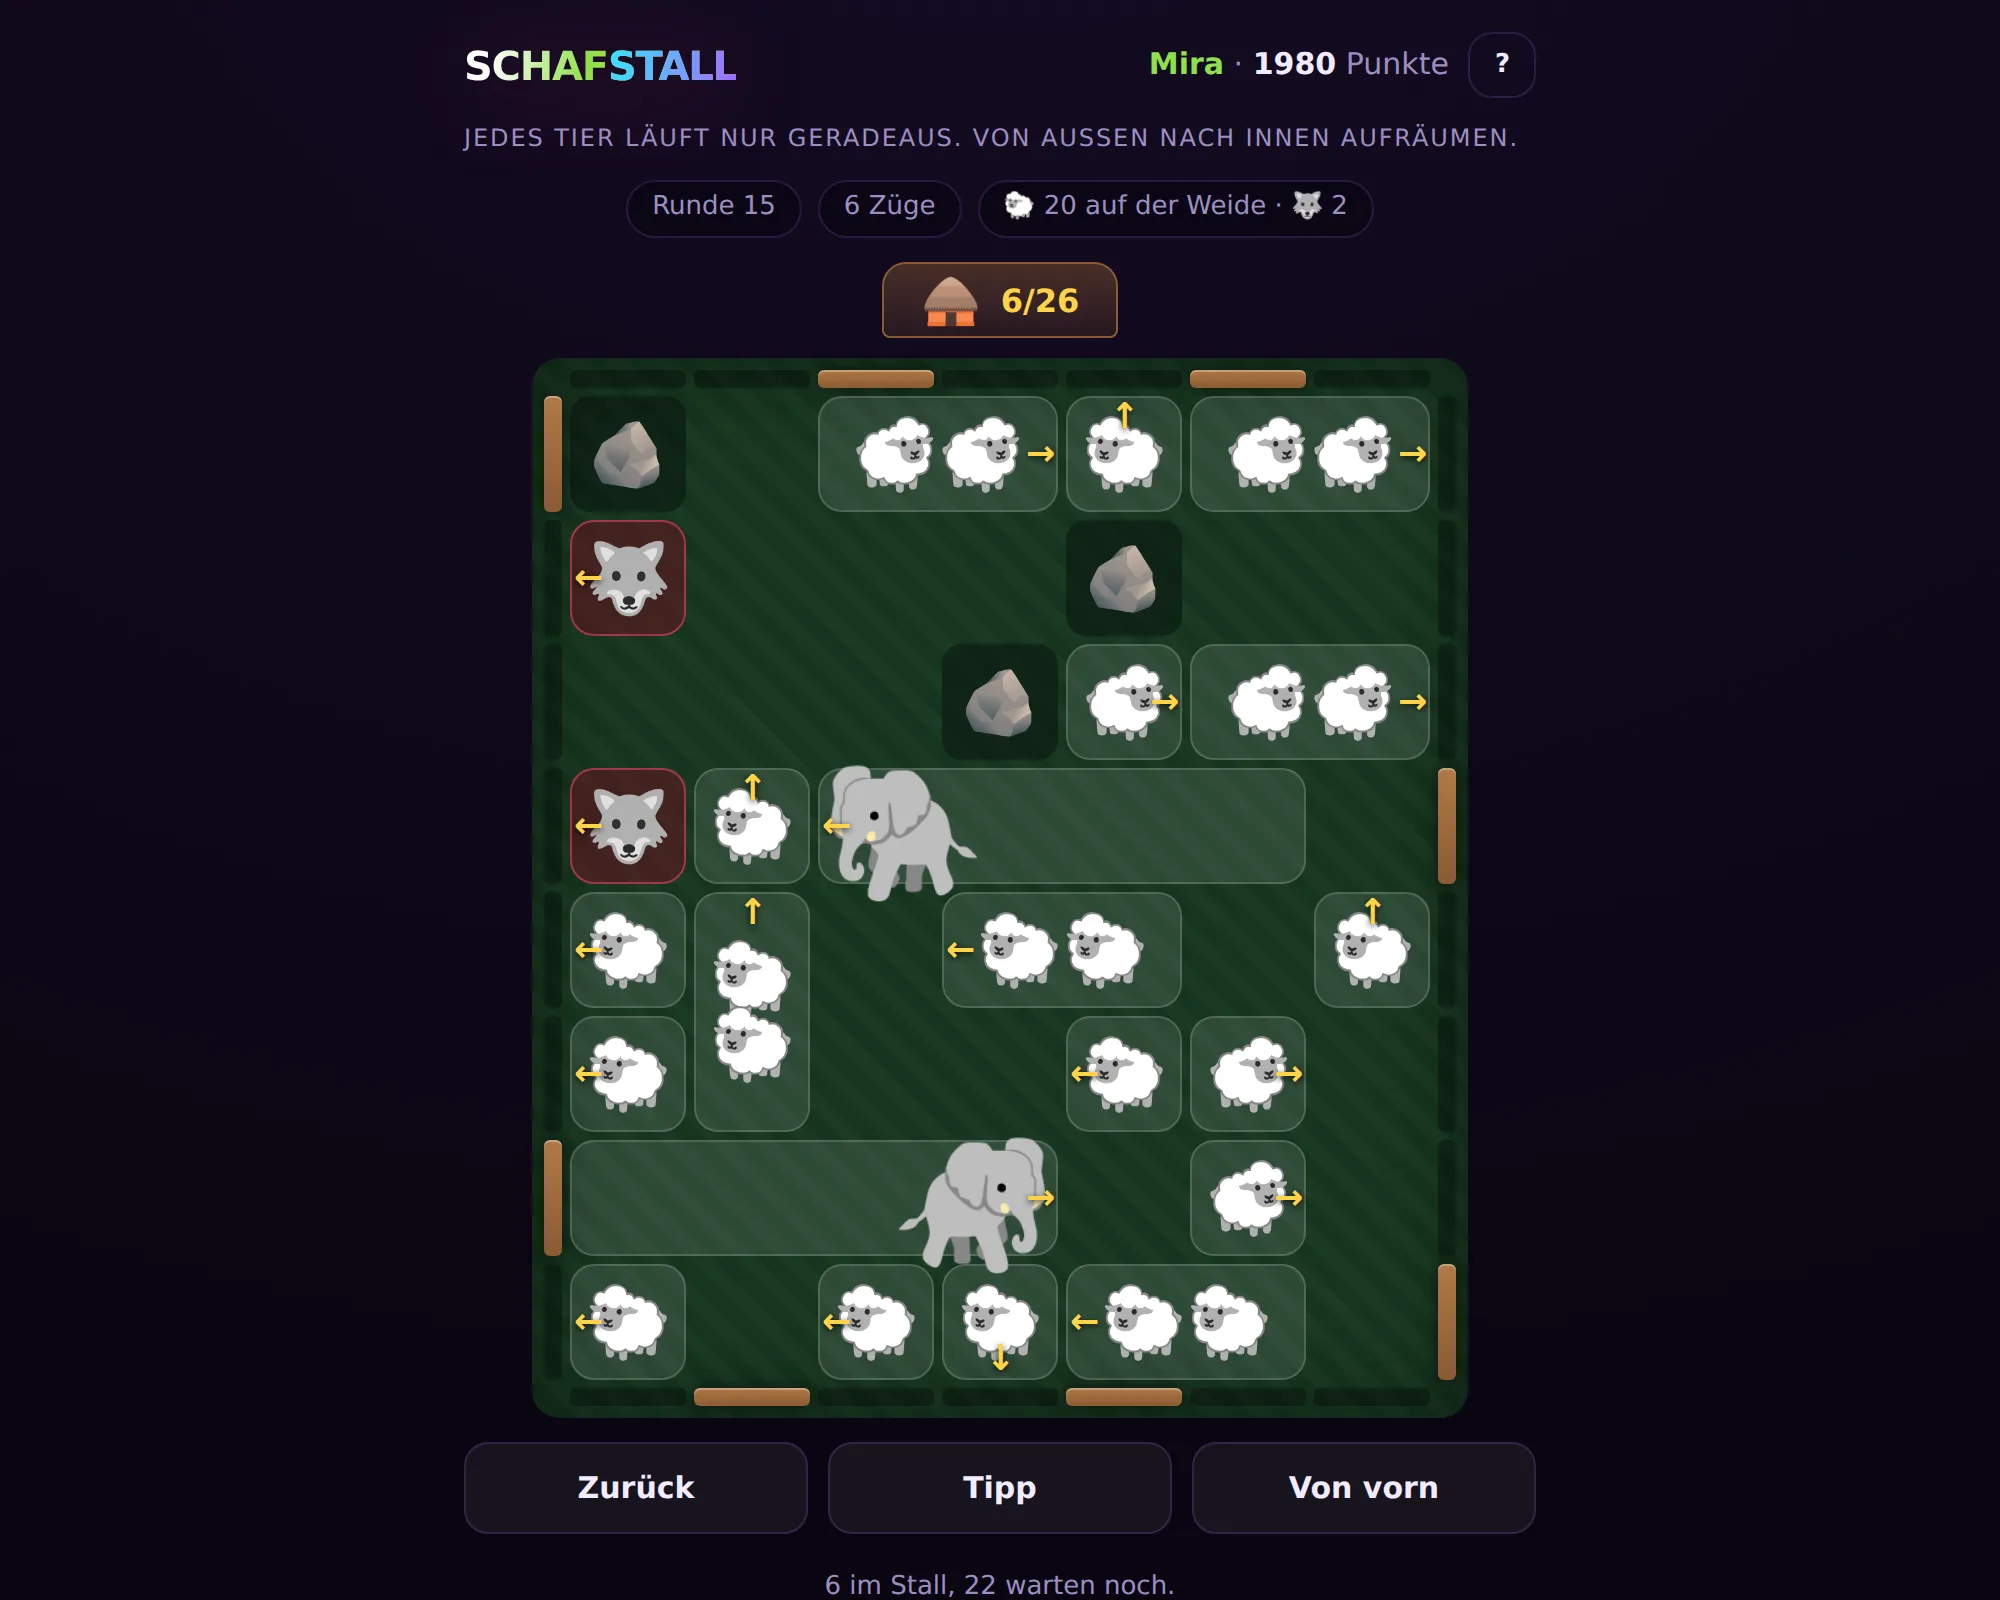
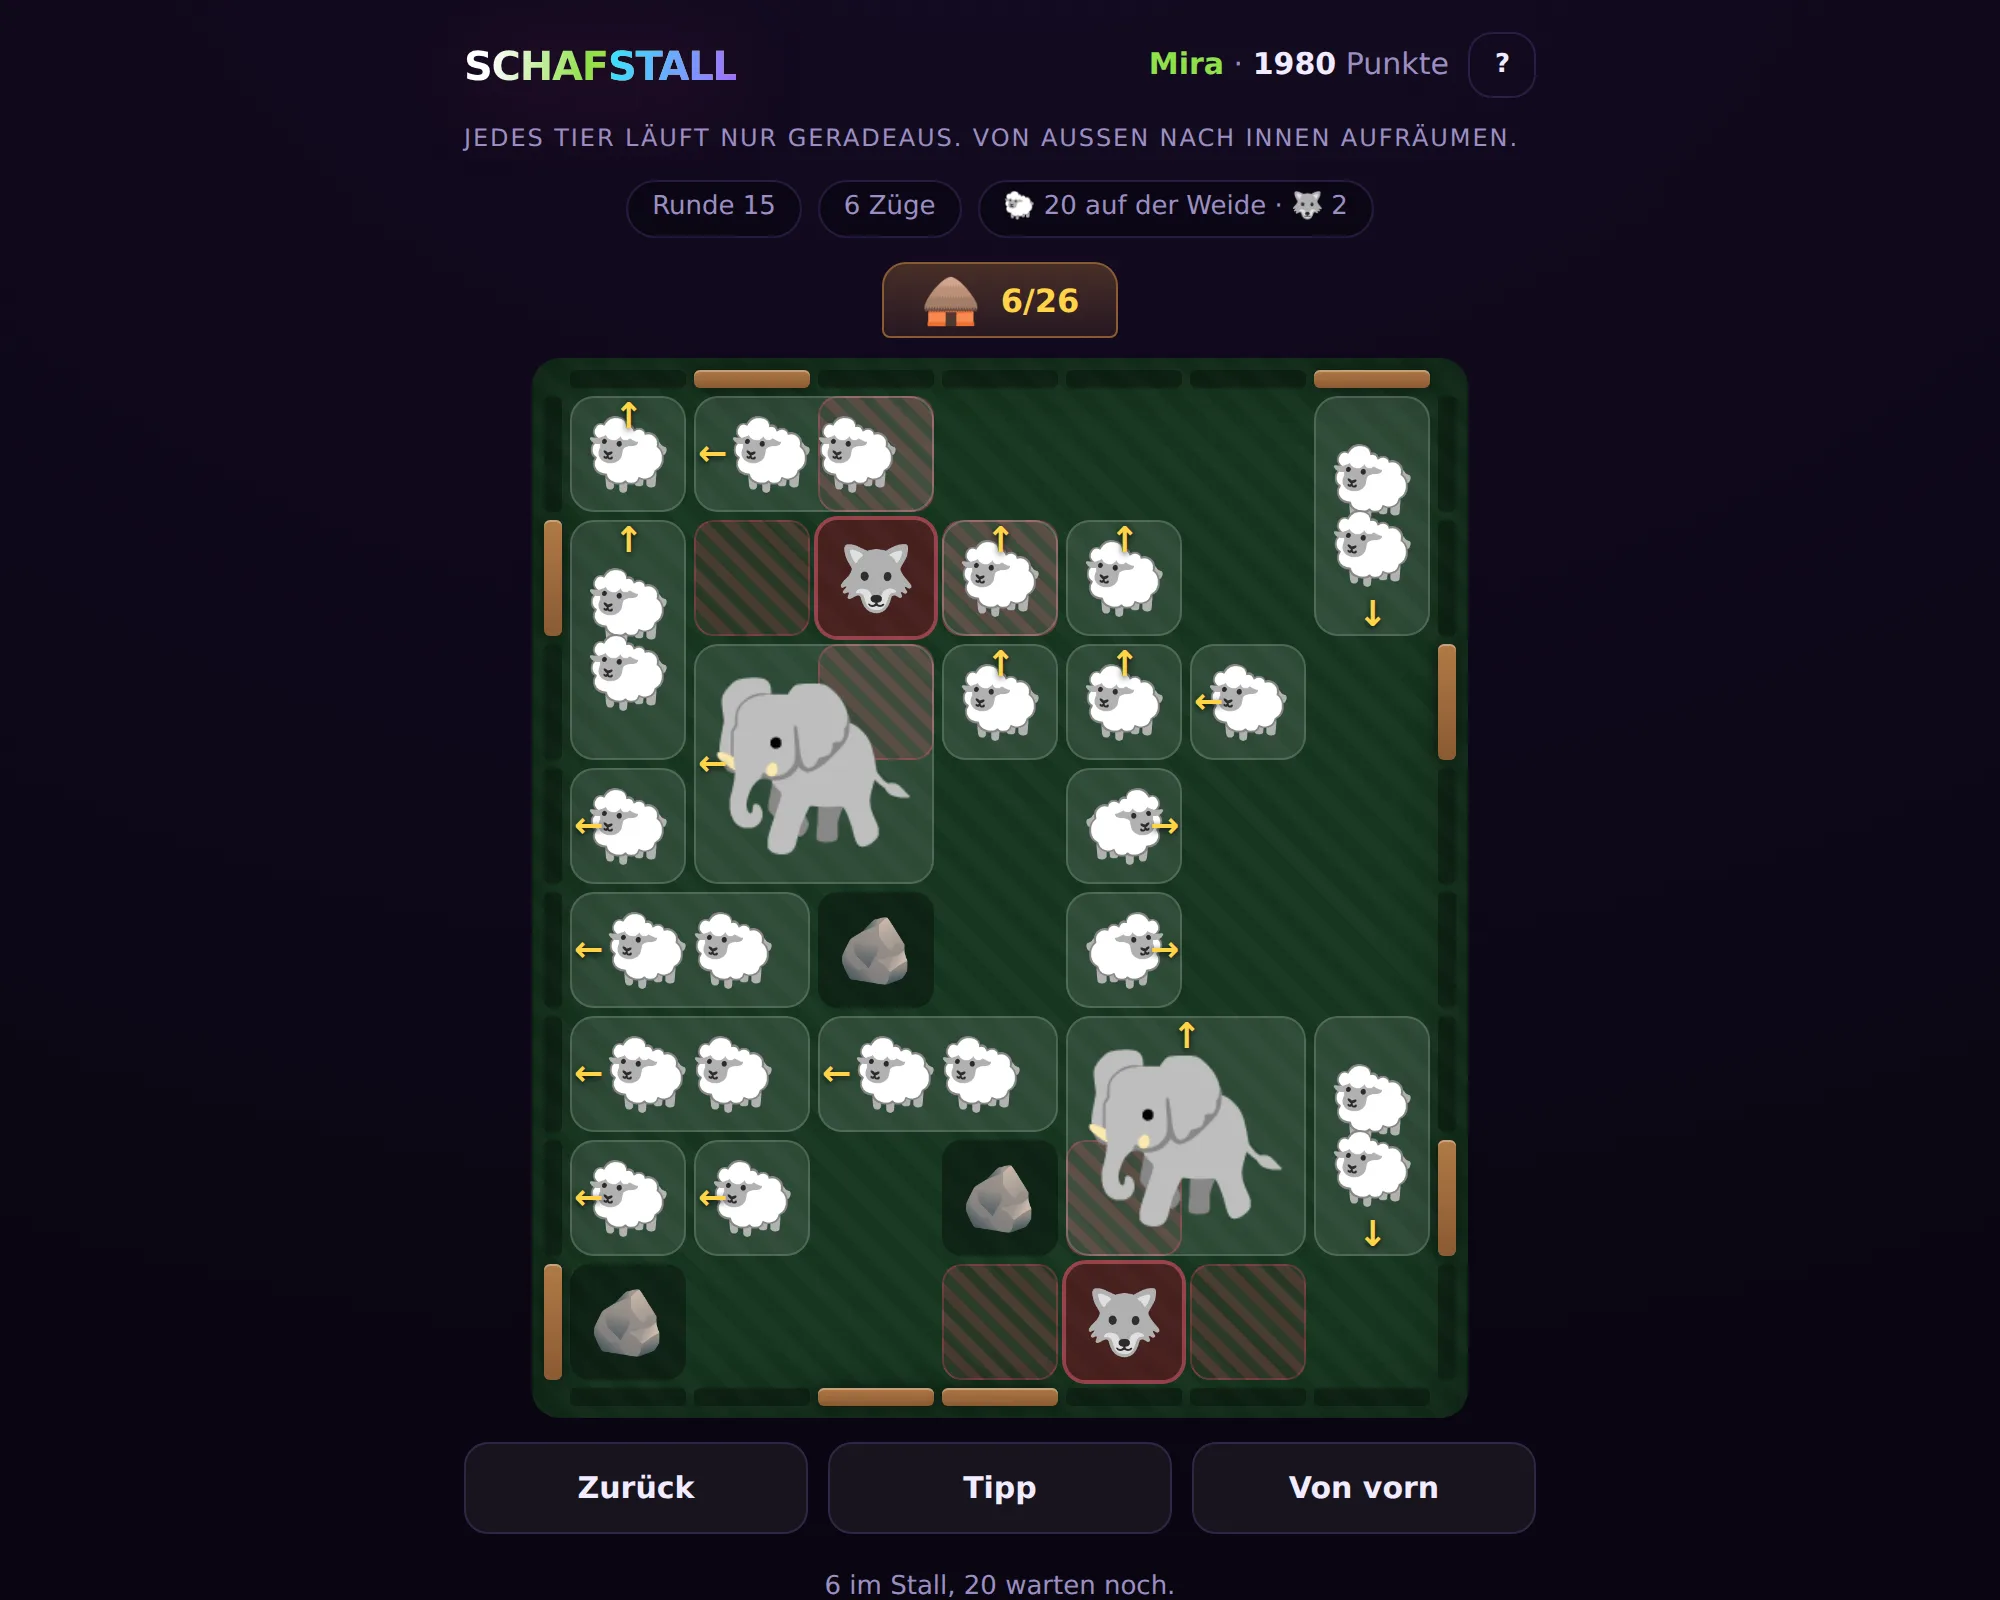
Schafstall: Kachel und Bild auf Elefantenblock und stillstehenden Wolf
Die Kachel erklaerte den Wolf noch als Stueck, das man wegjagt, und den
Elefanten als vier Zellen in einer Reihe. Beides stimmt nicht mehr: er steht
still und schnappt nach dem, was in seiner Reichweite haelt, und der Elefant
ist ein Viererblock, der zwei freie Bahnen und zwei Tore nebeneinander
braucht.

Das Kachelbild ist neu aufgenommen - die schraffierte Reichweite um die Woelfe
und die quadratischen Elefanten sieht man sonst nirgends.

Die Browserprobe zaehlt jetzt nach, dass genau die vier geraden Nachbarfelder
markiert sind: ueber Eck darf keines dabei sein, sonst behauptet das Bild eine
Gefahr, die es nicht gibt.

Changed region(s): [[0.248, 0.2188, 0.744, 0.9062]]

diff --git a/spiele/index.html b/spiele/index.html
@@ -1536,7 +1536,7 @@ footer a { color: inherit; }
 
   <article class="game" style="--accent:#8fe04a; --accent2:#ffd447;"
            data-spiel="schafstall" data-heimat="gruppe-allein" data-platz="6" data-bild="bilder/schafstall-spiel.webp"
-           data-kurz="Schiebepuzzle mit Schafen: jedes läuft nur geradeaus, bis etwas im Weg steht – und der Wolf frisst, wen er berührt.">
+           data-kurz="Schiebepuzzle mit Schafen: jedes läuft nur geradeaus, bis etwas im Weg steht – und neben dem Wolf bleibt besser keins stehen.">
     <button class="info" type="button" aria-label="Wie Schafstall gespielt wird"><span aria-hidden="true">i</span>Anleitung</button>
     <a class="game-link" href="/schafstall/">
       <img class="schnappschuss" src="bilder/klein/schafstall-spiel.webp" alt="Bildschirmfoto aus einer Runde Schafstall"
@@ -1546,7 +1546,7 @@ footer a { color: inherit; }
         <h3>Schafstall</h3>
       </div>
       <p class="kurz">Eine Weide voller Tiere, die sich gegenseitig im Weg stehen. Antippen, laufen lassen, schieben – bis alle im Stall sind.</p>
-      <p class="lang">Jedes Tier schaut in eine Richtung und läuft nur dorthin: bis vor das nächste Hindernis oder ganz aus der Weide hinaus. Damit räumt man von außen nach innen ab – und schiebt, wo es sein muss. Zwei Schafe im Gespann brauchen zwei Zellen, ein Elefant vier, und der Wolf frisst jedes Tier, das ihn berührt; wegjagen lässt er sich trotzdem. Rückwärts läuft keins, also kann man sich festfahren: dafür gibt es Zurück und Von vorn, beides ohne Punktabzug. Jede Weide ist nachweislich zu räumen, mit einem Zug je Tier – genau dafür gibt es drei Sterne. Punkte, Runde und Sterne bleiben unter deinem Namen im Browser; mehrere Leute können sich ein Gerät teilen.</p>
+      <p class="lang">Jedes Tier schaut in eine Richtung und läuft nur dorthin: bis vor das nächste Hindernis oder ganz aus der Weide hinaus. Damit räumt man von außen nach innen ab – und schiebt, wo es sein muss. Zwei Schafe laufen im Gespann, ein Elefant nimmt einen Viererblock ein und braucht zwei freie Bahnen nebeneinander. Der Wolf rührt sich nie vom Fleck, aber er schnappt nach allem, was in seiner Reichweite stehen bleibt – vorbeilaufen ist ungefährlich. Rückwärts läuft keins, also kann man sich festfahren: dafür gibt es Zurück und Von vorn, beides ohne Punktabzug. Jede Weide ist nachweislich zu räumen, mit einem Zug je Tier – genau dafür gibt es drei Sterne. Punkte, Runde und Sterne bleiben unter deinem Namen im Browser; mehrere Leute können sich ein Gerät teilen.</p>
       <div class="meta">
         <span class="dot" data-status></span>
         <span class="tag">allein</span>
@@ -1560,8 +1560,8 @@ footer a { color: inherit; }
         <li>Ein Tier antippen: es rennt in die Richtung, in die sein Pfeil zeigt – bis vor das nächste Hindernis, oder aus der Weide hinaus und in den Stall.</li>
         <li>Der kürzeste Weg ist von außen nach innen: jede Weide lässt sich mit einem einzigen Zug je Tier räumen. Dafür gibt es drei Sterne.</li>
         <li>Wer schiebt, kann sich festfahren – rückwärts läuft keins. „Zurück“ nimmt Züge zurück, „Von vorn“ stellt die Weide wieder hin. Punkte kostet beides keine.</li>
-        <li>Der Wolf 🐺 lässt sich wegjagen wie jedes andere Stück, aber berühren darf er nichts: läuft ein Tier gegen ihn, ist es weg und die Runde fängt von vorn an.</li>
-        <li>Ab Runde 4 laufen zwei Schafe im Gespann, ab 6 liegen Felsen herum, ab 8 kommt der Wolf, ab 10 ist der Rand zugezäunt, ab 12 steht ein Elefant im Weg.</li>
+        <li>Der Wolf 🐺 rührt sich nie – aber wer in seiner Reichweite (die schraffierten Felder) zum Stehen kommt, ist weg, und die Runde fängt von vorn an. Vorbeilaufen ist ungefährlich.</li>
+        <li>Ab Runde 4 laufen zwei Schafe im Gespann, ab 6 liegen Felsen herum, ab 8 kommt der Wolf, ab 10 ist der Rand zugezäunt, ab 12 steht ein Elefant im Weg – zwei mal zwei Zellen groß.</li>
         <li>Alle im Stall: Punkte nach Runde, gesparten Zügen und Tempo, dazu bis zu drei Sterne. Die nächste Runde ist größer und voller.</li>
     </template>
   </article>
